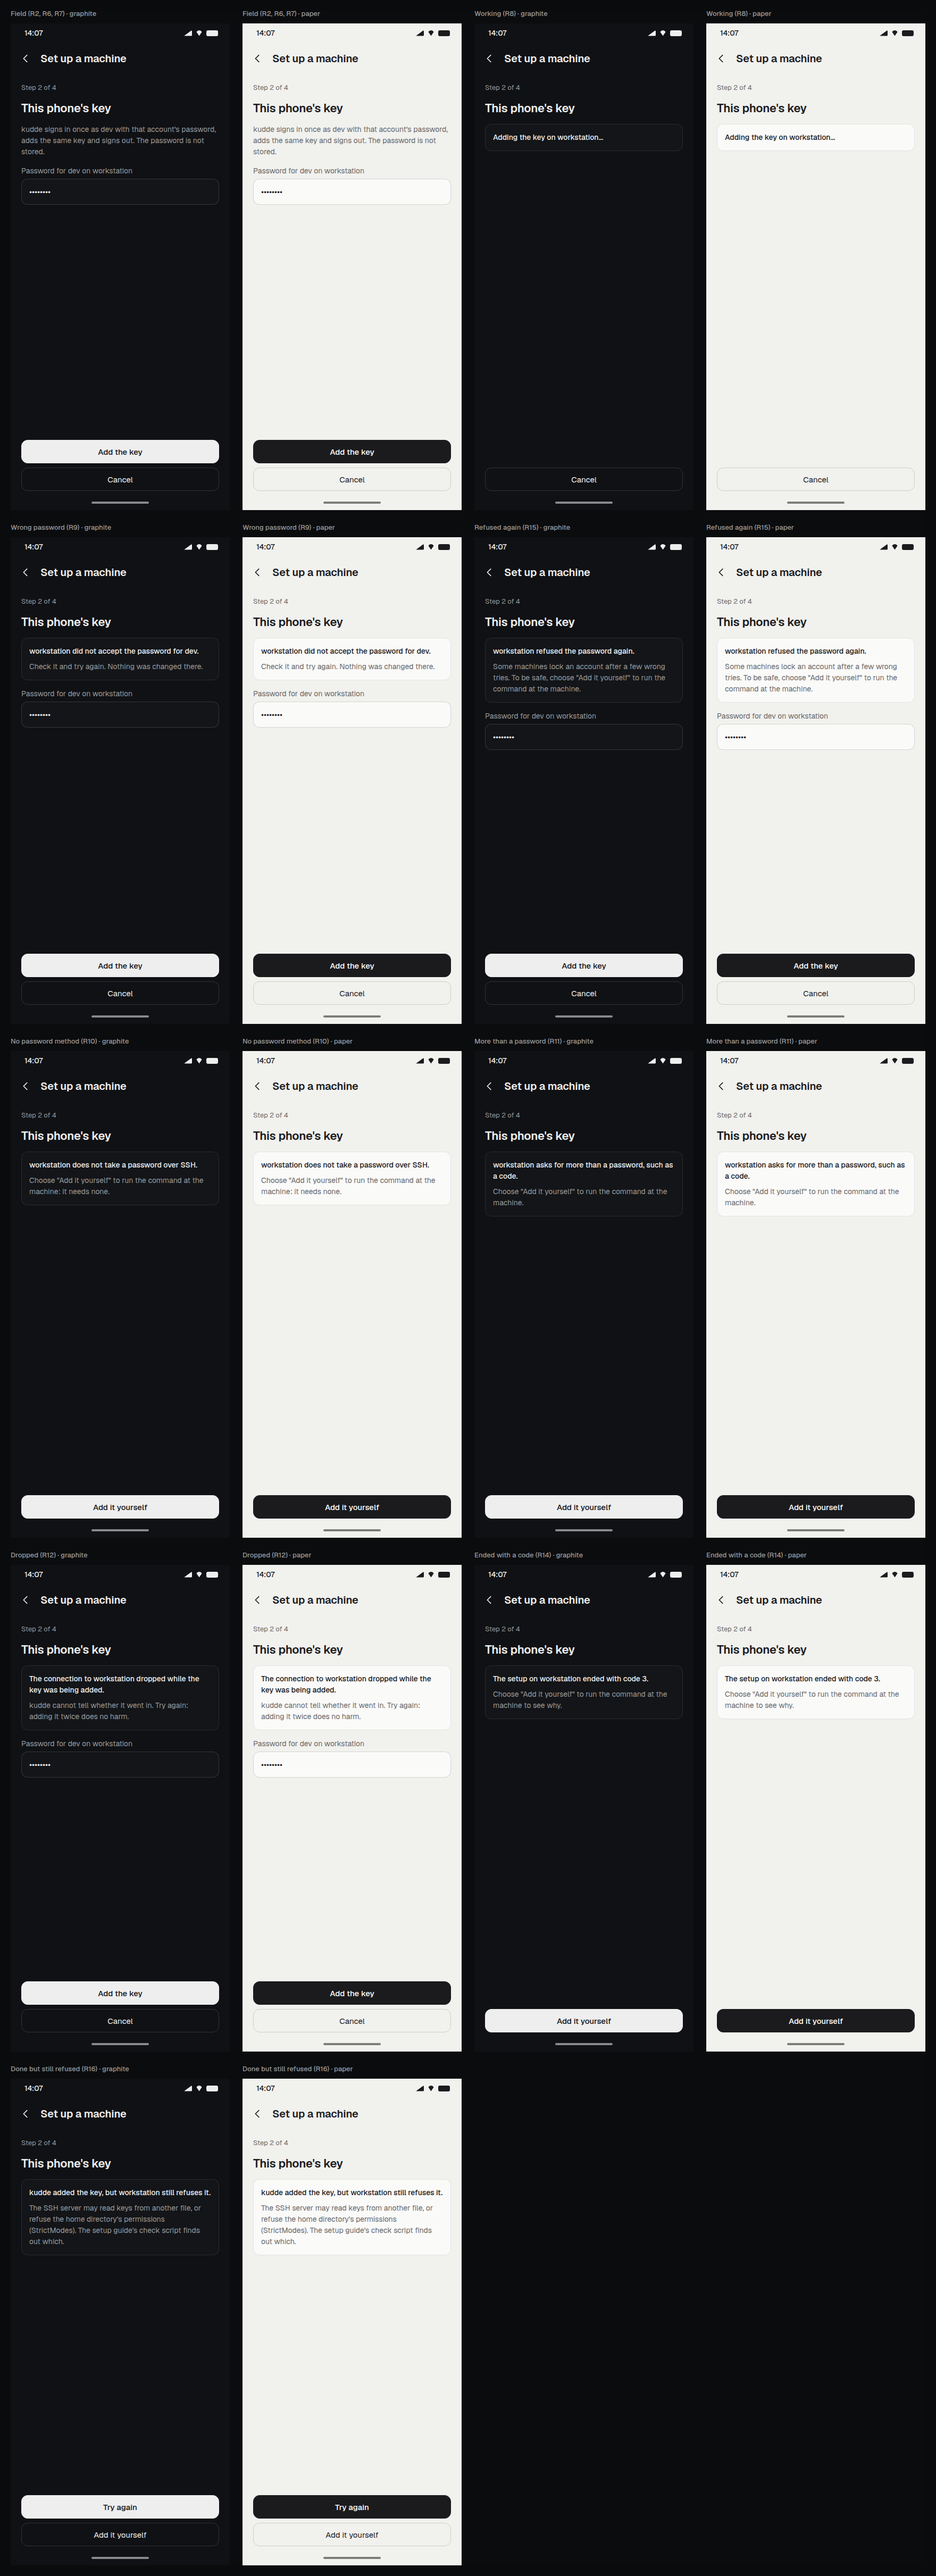
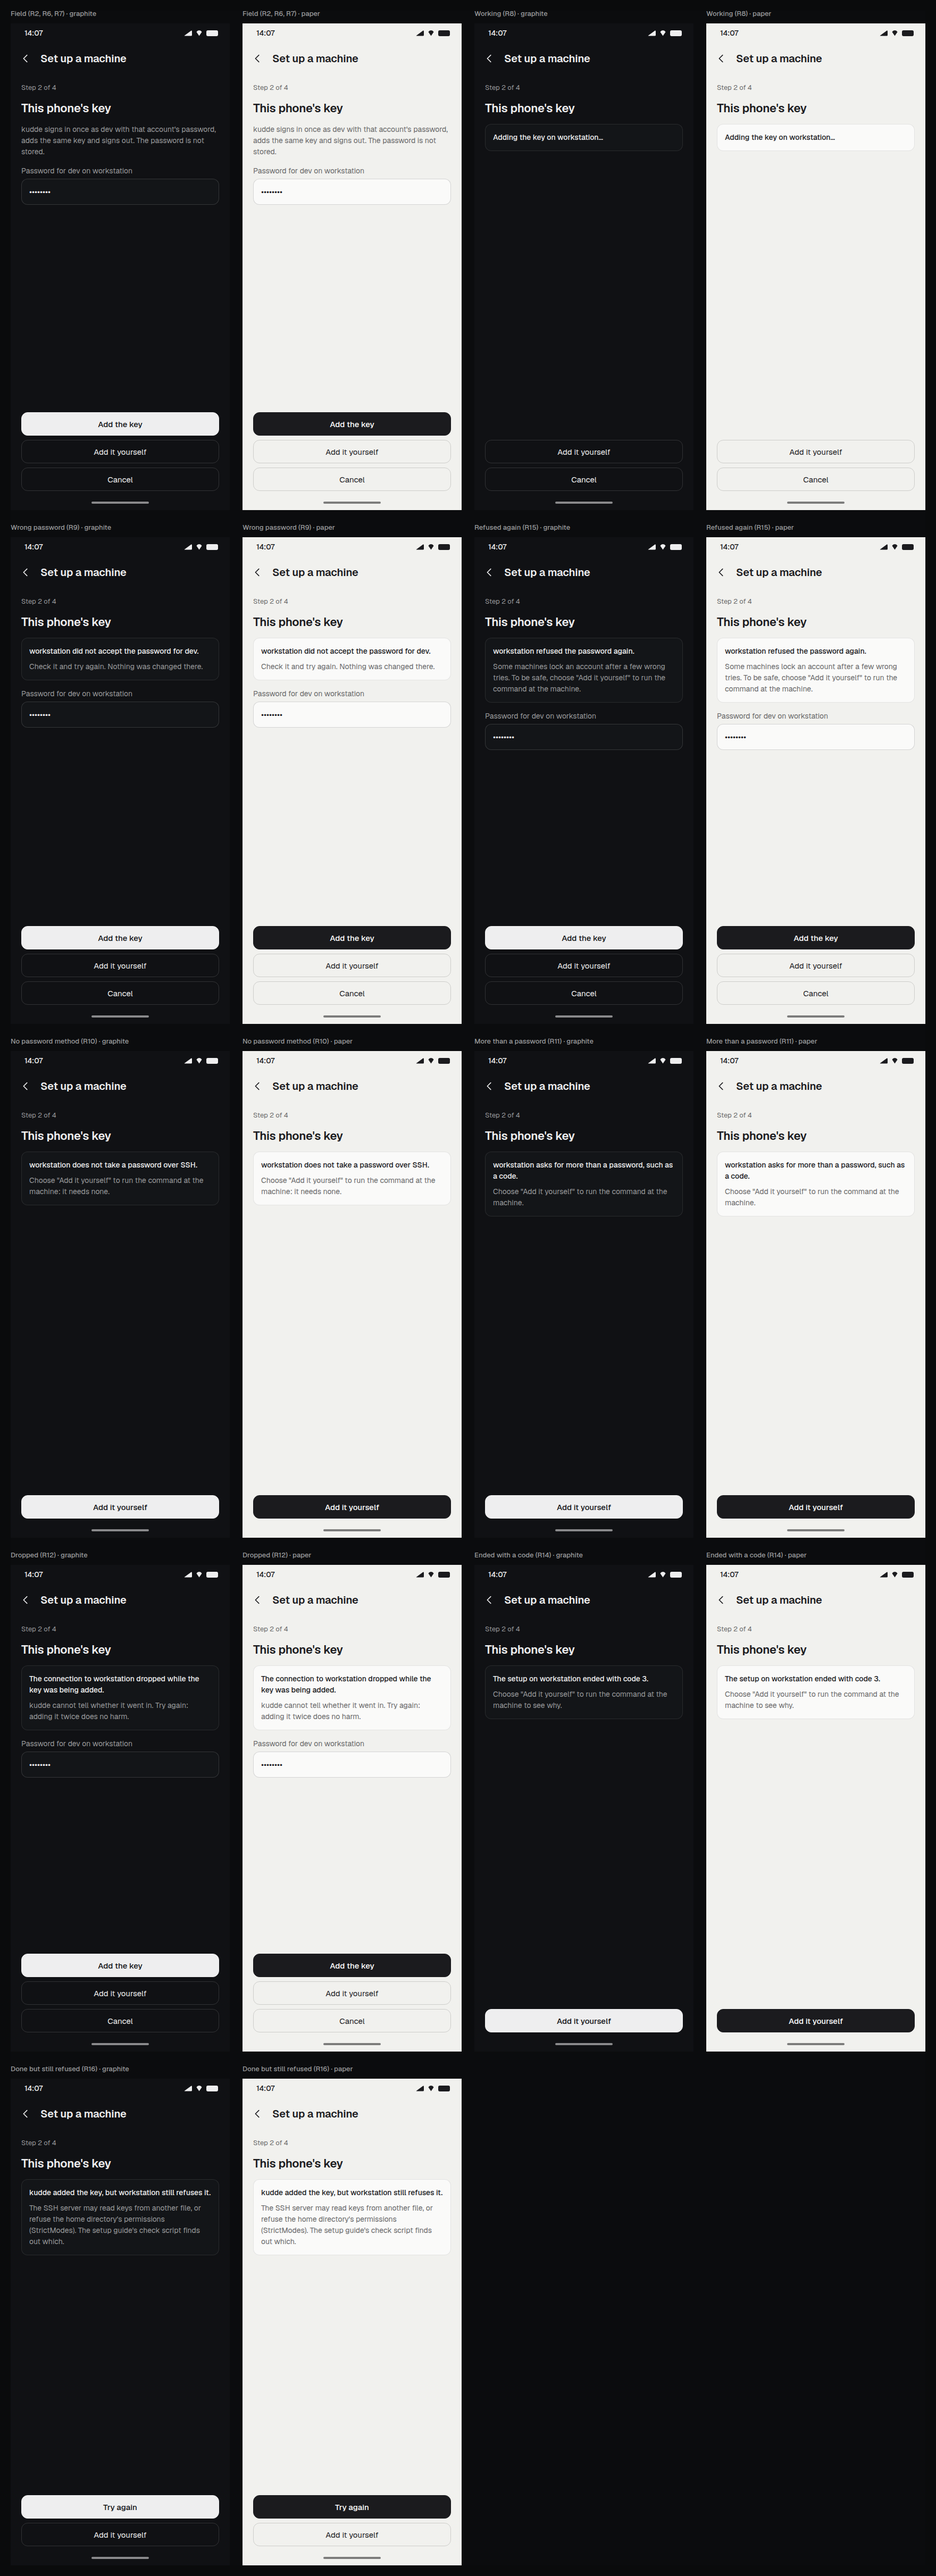
docs(design): add the manual choice to the password render states

Changed region(s): [[0.0, 0.343, 1.0, 0.4053], [0.0, 0.7483, 0.5, 0.7795], [0.0, 0.1559, 0.5, 0.1871]]

diff --git a/design/renders/screens.html b/design/renders/screens.html
@@ -1101,9 +1101,9 @@ function frPassword(theme, state='field'){
   const showField = !['none','more','code','refused','working'].includes(state);
   const field = showField ? `<div class="fr-field"><span>Password for dev on workstation</span><div class="field">••••••••</div></div>` : '';
   const notice = out ? `<div class="fr-notice"${state==='working'?'':''}><b style="font-weight:500">${out[0]}</b>${out[1]?`<p>${out[1]}</p>`:''}</div>` : '';
-  const footer = state === 'working' ? frButton('Cancel', false)
+  const footer = state === 'working' ? frButton('Add it yourself', false) + frButton('Cancel', false)
     : state === 'refused' ? frButton('Try again') + frButton('Add it yourself', false)
-    : showField ? frButton('Add the key') + frButton('Cancel', false)
+    : showField ? frButton('Add the key') + frButton('Add it yourself', false) + frButton('Cancel', false)
     : frButton('Add it yourself') ;
   const sentence = state === 'field' ? `<p>kudde signs in once as dev with that account's password, adds the same key and signs out. The password is not stored.</p>` : '';
   return frPhone(theme, frBody(2, "This phone's key", `${sentence}${notice}${field}${state==='field'?'':''}`), footer);
